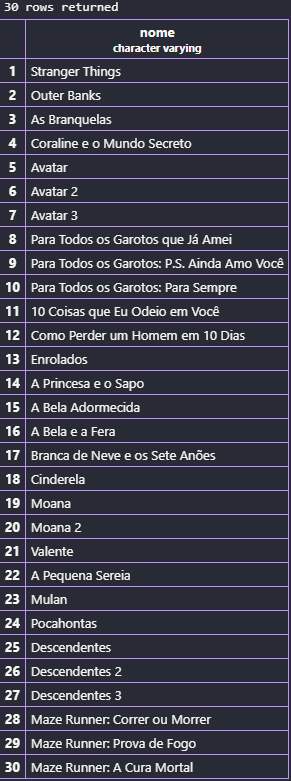
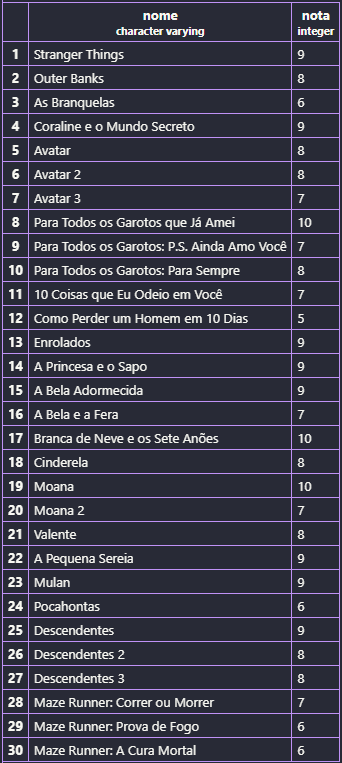
BCD

Changed region(s): [[0.0, 0.0, 1.0, 1.0]]

diff --git a/AULA06/anotacoes.md b/AULA06/anotacoes.md
@@ -1,0 +1,209 @@
+## AULA 06 - Análise de Dados
+> Para verificar se um banco de dados existe antes de apagá-lo, utilizamos o comando:
+```sql
+DROP DATABASE IF EXISTS loja
+```
+---
+> Criamos o banco de dados `pichau`:
+```sql
+CREATE DATABASE pichau;
+```
+---
+> Para criar a tabela:
+```sql
+CREATE TABLE produtos(
+    id SERIAL PRIMARY KEY,
+    nome VARCHAR (100) NOT NULL,
+    categoria VARCHAR (50) NOT NULL,
+    preco DECIMAL(10,2) NOT NULL,
+    estoque INTEGER NOT NULL
+);
+```
+---
+> Para inserir os dados:
+```sql
+INSERT INTO produtos (nome, categoria, preco, estoque) VALUES
+('Mouse Óptico USB', 'Periféricos', 50.00, 120),
+('Mouse Sem Fio', 'Periféricos', 89.90, 85),
+('Mouse Gamer RGB', 'Periféricos', 249.00, 32),
+('Teclado ABNT2 USB', 'Periféricos', 120.00, 64),
+('Teclado Mecânico Gamer', 'Periféricos', 459.00, 18),
+('Teclado Sem Fio Slim', 'Periféricos', 199.00, 40),
+('Mousepad Grande', 'Periféricos', 45.00, 150),
+('Suporte Ergonômico Notebook', 'Periféricos', 135.00, 28),
+('Hub USB 4 Portas', 'Periféricos', 79.00, 95),
+('Adaptador USB-C HDMI', 'Periféricos', 159.00, 47),
+
+('Monitor 21,5 Full HD', 'Monitores', 750.00, 22),
+('Monitor 24 Full HD IPS', 'Monitores', 950.00, 19),
+('Monitor 27 QHD', 'Monitores', 1890.00, 8),
+('Monitor 32 4K', 'Monitores', 2790.00, 4),
+('Monitor Gamer 144Hz', 'Monitores', 1650.00, 11),
+('Suporte Articulado Monitor', 'Monitores', 289.00, 26),
+
+('Notebook Básico 8GB', 'Notebooks', 2890.00, 14),
+('Notebook Intermediário 16GB', 'Notebooks', 4500.00, 9),
+('Notebook Gamer RTX', 'Notebooks', 7990.00, 3),
+('Notebook Ultrafino 14', 'Notebooks', 5300.00, 6),
+('Chromebook 11', 'Notebooks', 1790.00, 17),
+('Carregador Universal 65W', 'Notebooks', 189.00, 58),
+
+('Impressora Laser Mono', 'Impressão', 800.00, 12),
+('Impressora Multifuncional', 'Impressão', 1250.00, 7),
+('Impressora Tanque de Tinta', 'Impressão', 1090.00, 10),
+('Toner Compatível Preto', 'Impressão', 145.00, 72),
+('Cartucho Colorido', 'Impressão', 98.00, 88),
+('Papel A4 500 folhas', 'Impressão', 29.90, 240),
+('Scanner de Mesa', 'Impressão', 690.00, 5),
+
+('Roteador Wi-Fi 5 Dual Band', 'Redes', 249.00, 35),
+('Roteador Wi-Fi 6 AX1500', 'Redes', 459.00, 16),
+('Switch 8 Portas Gigabit', 'Redes', 329.00, 21),
+('Cabo de Rede Cat6 5m', 'Redes', 35.00, 180),
+('Repetidor de Sinal Wi-Fi', 'Redes', 139.00, 54),
+('Placa de Rede USB Wi-Fi', 'Redes', 89.00, 66),
+('Nobreak 1500VA', 'Redes', 980.00, 6),
+
+('SSD 480GB SATA', 'Armazenamento', 289.00, 45),
+('SSD 1TB NVMe', 'Armazenamento', 549.00, 24),
+('SSD 2TB NVMe', 'Armazenamento',1090.00, 9),
+('HD Externo 1TB', 'Armazenamento', 379.00, 31),
+('HD Externo 2TB', 'Armazenamento', 549.00, 15),
+('Pen Drive 64GB', 'Armazenamento', 49.90, 200),
+('Pen Drive 128GB', 'Armazenamento', 79.90, 110),
+('Cartão de Memória 128GB', 'Armazenamento', 99.00, 76),
+
+('Headset Gamer com Microfone', 'Áudio', 250.00, 38),
+('Headset Bluetooth', 'Áudio', 329.00, 27),
+('Caixa de Som Bluetooth', 'Áudio', 189.00, 49),
+('Fone Intra-Auricular', 'Áudio', 69.90, 130),
+('Microfone Condensador USB', 'Áudio', 449.00, 13),
+('Webcam Full HD 1080p', 'Áudio', 180.00, 41);
+```
+---
+> Para verificar a quantidade de linhas da tabela:
+```sql
+SELECT COUNT(*) FROM produtos;
+```
+---
+> Filtro de colunas e limitação de saídas:
+```sql
+SELECT nome, preco FROM produtos LIMIT 10;
+```
+---
+> Para verificar a quantidade e tipos diferentes de categorias:
+```sql
+SELECT DISTINCT categoria FROM produtos ORDER BY categoria;
+```
+- `ORDER BY` serve para organizar os dados em ordem alfabética.
+---
+> Filtro de colunas e categorias (filtro combinado):
+```sql
+SELECT nome,preco,estoque
+FROM produtos
+WHERE categoria = 'Monitores';
+```
+---
+> Filtrando produtos que custam mais do que R$1000,00:
+```sql
+SELECT nome, preco
+FROM produtos
+WHERE preco <= 1000;
+```
+---
+> Para faixas de preços:
+```sql
+SELECT nome,preco
+FROM produtos
+WHERE preco >= 0 AND preco <= 500;
+```
+OU
+```sql
+SELECT nome,preco
+FROM produtos
+WHERE preco BETWEEN 0 AND 500;
+```
+---
+> Utilizando o comando `OR` para filtrar duas categorias:
+```sql
+SELECT nome, preco
+FROM produtos
+WHERE categoria = 'Monitores' OR categoria = 'Notebooks';
+```
+---
+> Para consultas desconsiderando letras maiúsculas:
+```sql
+SELECT nome, preco
+FROM produtos
+WHERE nome ILIKE 'monitor%';
+```
+- `nome ILIKE 'monitor%'`: Compara o campo ***nome*** de forma **case-insensitive** (sem diferenciar maiúsculas de minúsculas). O símbolo `%` no final significa "qualquer texto após a palavra monitor".
+---
+## Atividade prática 06 - Análise de Dados (Livraria)
+>Criação do banco de dados `livros`:
+
+![alt text](image.png)
+
+>Criação da tabela e colunas:
+```sql
+CREATE TABLE livros(
+    id INT GENERATED ALWAYS AS IDENTITY PRIMARY KEY,
+    nome VARCHAR (50) NOT NULL,
+    autor VARCHAR (50) NOT NULL,
+    preco DECIMAL (10,2) NOT NULL,
+    genero VARCHAR (50) NOT NULL,
+    estoque INT NOT NULL,
+    ano_publicacao VARCHAR (4) NOT NULL
+);
+```
+---
+>**Bloco 1** - Reconhecimento da base
+
+>1. Exiba todos os dados da tabela, mas limitando o resultado aos 10 primeiros registros.
+```sql
+SELECT * FROM livros LIMIT 10;
+```
+
+![alt text](image-1.png)
+
+>2. Exiba apenas as colunas nome, autor e preco de todos os livros.
+```sql
+SELECT nome,autor,preco FROM livros;
+```
+
+![alt text](image-2.png)
+
+>3. Liste os gêneros distintos existentes na base, em ordem alfabética.
+```sql
+SELECT DISTINCT genero FROM livros ORDER BY genero;
+```
+
+![alt text](image-3.png)
+
+>4. Descubra quantos autores diferentes existem.
+```sql
+SELECT DISTINCT autor FROM livros;
+```
+
+![alt text](image-4.png)
+
+>5. Liste os 5 livros mais caros da base (nome e preço).
+```sql
+SELECT nome,preco FROM livros
+ORDER BY preco DESC
+LIMIT 5;
+```
+
+![alt text](image-5.png)
+
+>6. Liste os 5 livros com menor estoque (nome e estoque).
+```sql
+SELECT nome,estoque FROM livros
+ORDER BY estoque ASC
+LIMIT 5;
+```
+![alt text](image-6.png)
+
+>**Bloco 2** - Filtros numéricos
+
+>7. Mostre nome e estoque de todos os livros do gênero Técnico.

diff --git a/AULA05/anotacoes.md b/AULA05/anotacoes.md
@@ -70,7 +70,7 @@ CREATE TABLE streaming(
 INSERT INTO streaming(nome, duração, nota)
 VALUES 
 ('Stranger Things','2718','9'),
-('Outer Banks','2000','8'),
+('Outer Banks','2500','8'),
 ('As Branquelas','109','6'),
 ('Coraline e o Mundo Secreto','100','9'),
 ('Avatar','162','8'),
@@ -112,10 +112,50 @@ SELECT * FROM streaming;
 
 >7- Para consultar somente o ***nome*** e ***nota*** dos filmes, utilizar os comandos:
 ```sql
-SELECT nome FROM streaming;
-SELECT nota FROM streaming;
+SELECT nome, nota FROM streaming;
 ```
 ![alt text](image-3.png)
--
+
+>8- Para atualizar a ***nota*** de 5 filmes, utilizar o comando:
+```sql
+UPDATE streaming
+SET nota = 8
+WHERE nome = 'Maze Runner: Prova de Fogo';
+
+UPDATE streaming
+SET nota = 9
+WHERE nome = 'Maze Runner: Correr ou Morrer';
+
+UPDATE streaming
+SET nota = 10
+WHERE nome = 'As Branquelas';
+
+UPDATE streaming
+SET nota = 9
+WHERE nome = 'Maze Runner: A Cura Mortal';
+
+UPDATE streaming
+SET nota = 10
+WHERE nome = '10 Coisas que Eu Odeio em Você';
+```
+
+>9- A tabela ficará assim:
+
 ![alt text](image-4.png)
----
+
+>10- Para apagar os 5 filmes com avaliação mais baixa, utilizar os comandos:
+```sql
+DELETE FROM streaming WHERE nome = 'Pocahontas';
+
+DELETE FROM streaming WHERE nome = 'Como Perder um Homem em 10 Dias';
+
+DELETE FROM streaming WHERE nome = 'Moana 2';
+
+DELETE FROM streaming WHERE nome = 'A Bela e a Fera';
+
+DELETE FROM streaming WHERE nome = 'Avatar 3';
+```
+
+>11- A tabela ficará assim:
+
+![alt text](image-5.png)
